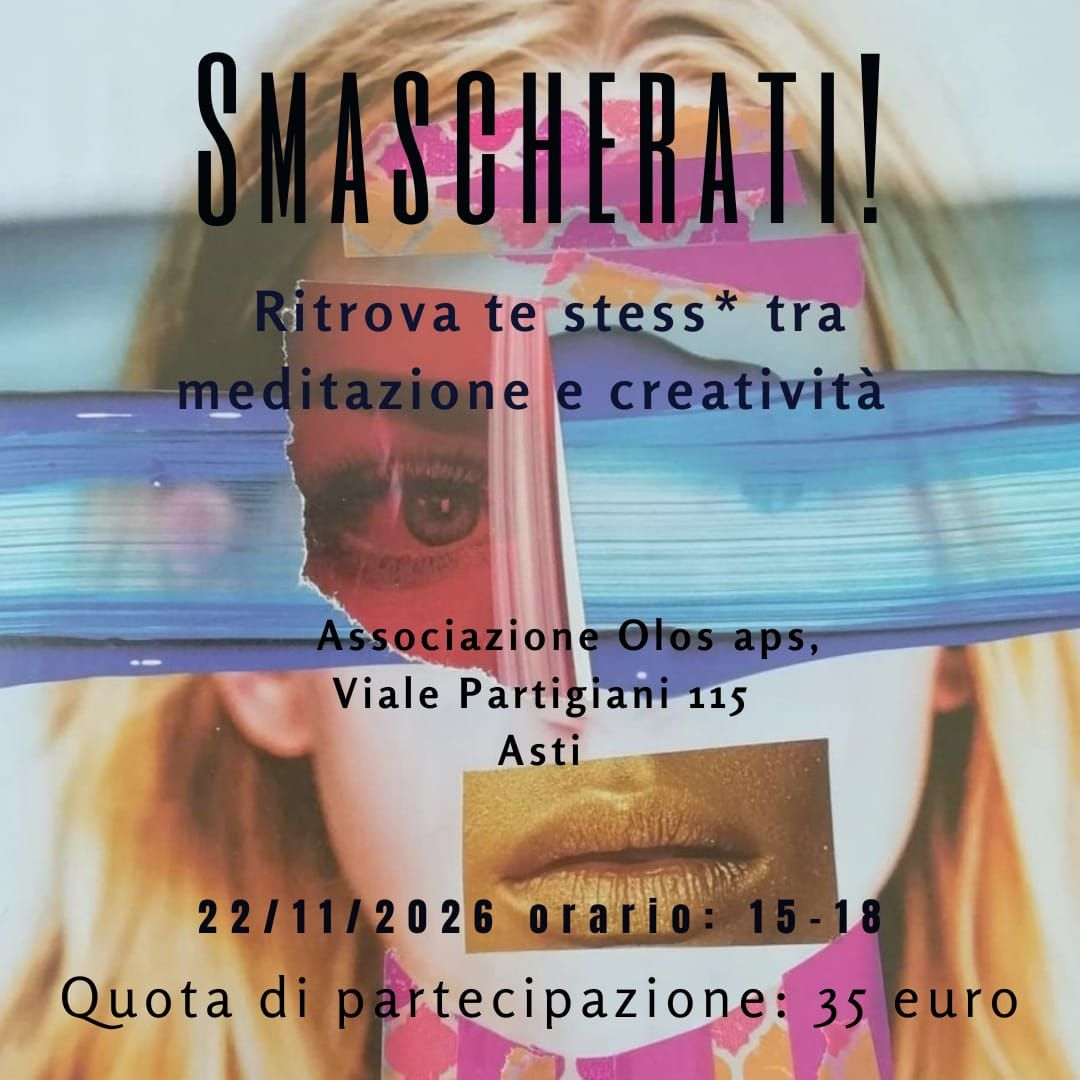
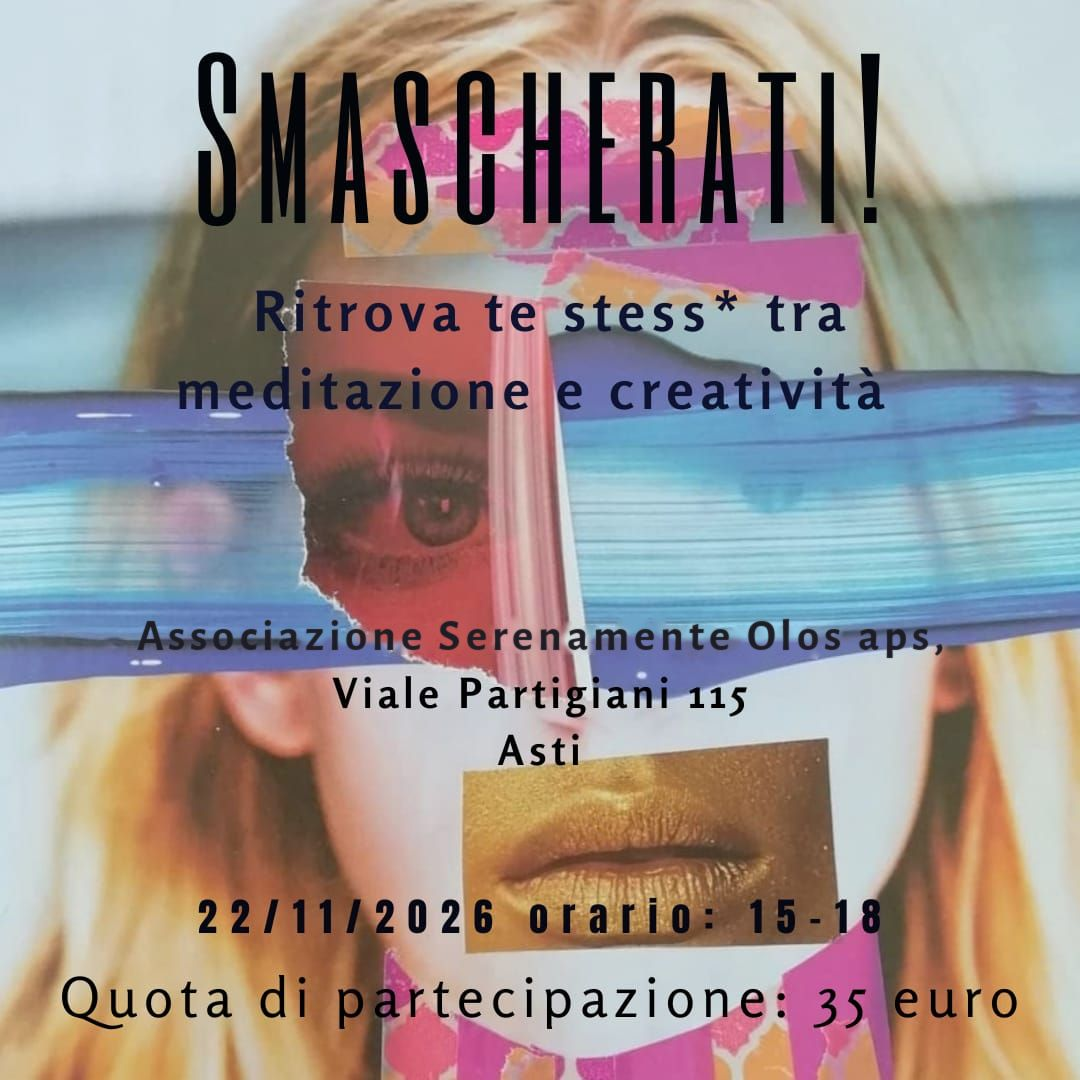
Eventi: nome corretto dell'associazione (Serenamente Olos aps)
Corretto nel testo, nella descrizione dell'immagine, nei dati
strutturati e dentro la locandina stessa (riga riscritta con lo stesso
carattere, Alegreya Sans Bold).

Claude-Session: https://claude.ai/code/session_016Ywt3maop4wG1bjJoETQC2

Changed region(s): [[0.1222, 0.55, 0.8861, 0.6111]]

diff --git a/src/index.html b/src/index.html
@@ -169,7 +169,7 @@
     <div class="evento-locandine">
       <a href="/assets/img/evento-smascherati-1.jpg" target="_blank" rel="noopener">
         <img src="/assets/img/evento-smascherati-1.jpg" class="evento-img" loading="lazy" width="1080" height="1080"
-             alt="Locandina Smascherati! Ritrova te stess* tra meditazione e creatività – 22 novembre 2026, Associazione Olos, Asti">
+             alt="Locandina Smascherati! Ritrova te stess* tra meditazione e creatività – 22 novembre 2026, Associazione Serenamente Olos, Asti">
       </a>
       <a href="/assets/img/evento-smascherati-2.jpg" target="_blank" rel="noopener">
         <img src="/assets/img/evento-smascherati-2.jpg" class="evento-img" loading="lazy" width="1080" height="1350"
@@ -182,7 +182,7 @@
       <h3>Smascherati! <span>Ritrova te stess* tra meditazione e creatività</span></h3>
       <ul class="evento-dati">
         <li>📅 <strong>Domenica 22 novembre 2026</strong>, dalle 15 alle 18</li>
-        <li>📍 Associazione Olos aps, Viale Partigiani 115, Asti</li>
+        <li>📍 Associazione Serenamente Olos aps, Viale Partigiani 115, Asti</li>
         <li>💶 35 € – tutti i materiali sono inclusi</li>
       </ul>
       <p>Un pomeriggio per rallentare con una meditazione dolce guidata da Silvia, e poi, con la psicologa fototerapeuta Antonella Di Dedda, ritrovare i pezzi di noi attraverso collage e scrittura personale, fino a creare la propria maschera.</p>
@@ -203,7 +203,7 @@
   "eventAttendanceMode": "https://schema.org/OfflineEventAttendanceMode",
   "location": {
     "@type": "Place",
-    "name": "Associazione Olos aps",
+    "name": "Associazione Serenamente Olos aps",
     "address": {
       "@type": "PostalAddress",
       "streetAddress": "Viale Partigiani 115",
